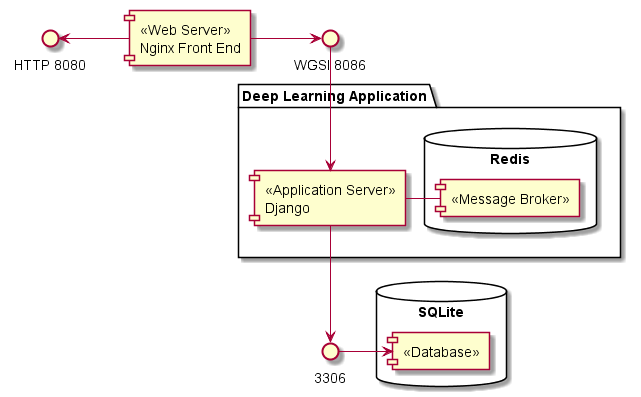
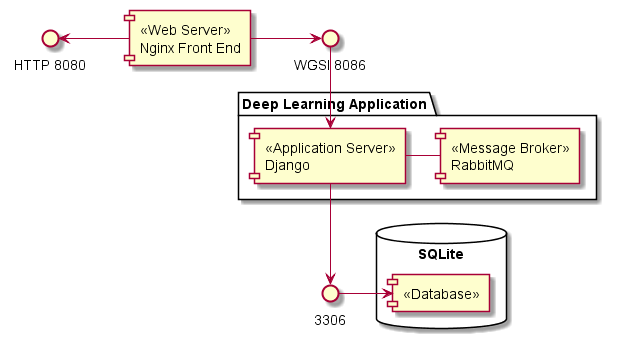
Refactoring Added Celery for Async POST Call Updated Design Diagram

Changed region(s): [[0.0, 0.0, 0.9854, 1.0]]

diff --git a/rec/views.py b/rec/views.py
@@ -1,6 +1,9 @@
 from django.shortcuts import render
+from django.views import View
 from django.http import HttpResponse
 from enum import Enum
+import json
+from .learn import DeepLearn
 # Create your views here.
 
 
@@ -20,27 +23,25 @@ state_dict = {
 state = State.READY
 
 
-def init(request):
-    # TODO Add implementation for Async POST Call
-    pass
+class TSRView(View):
 
+    def __init__(self):
+        self.state = State.READY
+        self.dL = DeepLearn()
 
-def status(request):
-    if request.method == 'GET':
-        response = HttpResponse(state_dict[state], content_type="text/plain")
+    def get(self, request):
+        # TODO Add implementation for returning accuracy of the trained Deep Learning Model
+        tokens = request.path.split('/')
+        if len(tokens) > 3:
+            return HttpResponse(state=404)
+        response = HttpResponse(json.dumps({'state': state_dict[self.state]}), content_type="application/json")
         response.status_code = 200
         return response
-    else:
-        return HttpResponse(status=405)
 
+    def post(self, request):
+        # TODO Add implementation for Async POST Call to initiate training
+        # TODO Add implementation for returning prediction of a given image after running it through the trained model
 
-def accuracy(request):
-    # TODO Add implementation for returning accuracy of the trained Deep Learning Model
-    # TODO Finalize url pattern
-    pass
-
-
-def prediction(request):
-    # TODO Add implementation for returning prediction of a given image after running it through the trained model
-    # TODO Finalize url pattern
-    pass
+        # dL.init_deep_learning.delay()
+        #     state = State.IN_PROGRESS
+        pass

diff --git a/rec/learn.py b/rec/learn.py
@@ -6,6 +6,7 @@ from keras.optimizers import RMSprop
 import numpy as np
 from configparser import ConfigParser
 import os
+from celery import shared_task
 
 LEARNING_RATE = 'learning_rate'
 BATCH_SIZE = 'batch_size'
@@ -24,6 +25,13 @@ class DeepLearn:
             os.sep +
             'appConfig.ini')
         self.score = 0
+
+    # Asynchronous Driver Method
+    @shared_task
+    def init_deep_learning(self):
+        self.process_data()
+        self.create_model()
+        self.train_model()
 
     def process_data(self):
         # TODO Call code for processing data

diff --git a/Kiera/urls.py b/Kiera/urls.py
@@ -15,8 +15,9 @@ Including another URLconf
 """
 from django.contrib import admin
 from django.urls import path, include
-from rec import views
+from rec.views import TSRView
 
 urlpatterns = [
-    path('rec/status', views.status, name='status'),
+    path('rec/status', TSRView.as_view(), name='status'),
+    # TODO Add UrlConfs for POST Init Training POST Predict GET Accuracy and so on
 ]

diff --git a/Kiera/celery.py b/Kiera/celery.py
@@ -1,0 +1,11 @@
+import os
+from celery import Celery
+from django.conf import settings
+
+
+os.environ.setdefault('DJANGO_SETTINGS_MODULE', 'Kiera.settings')
+app = Celery('Kiera')
+# Using a string here means the worker will not have to
+# pickle the object when using Windows.
+app.config_from_object('django.conf:settings')
+app.autodiscover_tasks(lambda: settings.INSTALLED_APPS)

diff --git a/Kiera/settings.py b/Kiera/settings.py
@@ -119,3 +119,9 @@ USE_TZ = True
 # https://docs.djangoproject.com/en/2.0/howto/static-files/
 
 STATIC_URL = '/static/'
+
+#Celery Config
+BROKER_URL = 'amqp://guest:guest@localhost:5672//'
+CELERY_ACCEPT_CONTENT = ['json']
+CELERY_TASK_SERIALIZER = 'json'
+CELERY_RESULT_SERIALIZER = 'json'

diff --git a/Kiera/__init__.py b/Kiera/__init__.py
@@ -1,0 +1,1 @@
+from .celery import app as celery_app
